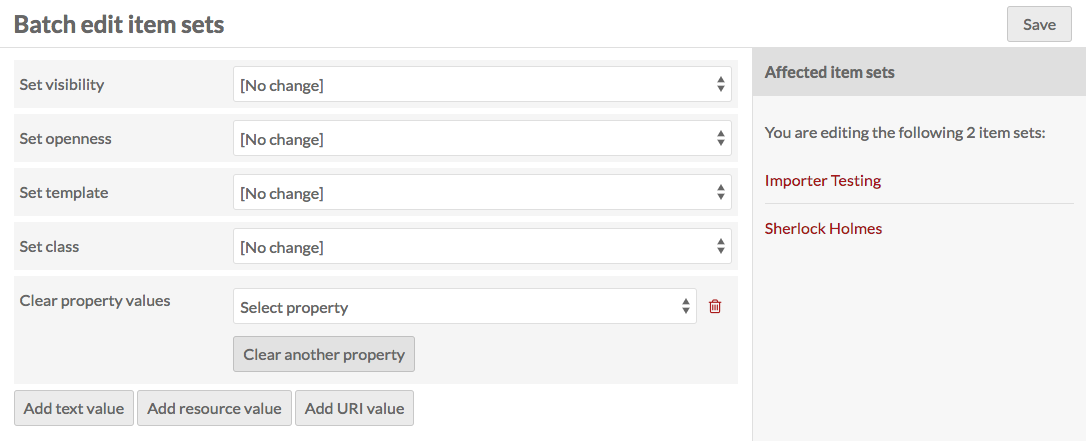
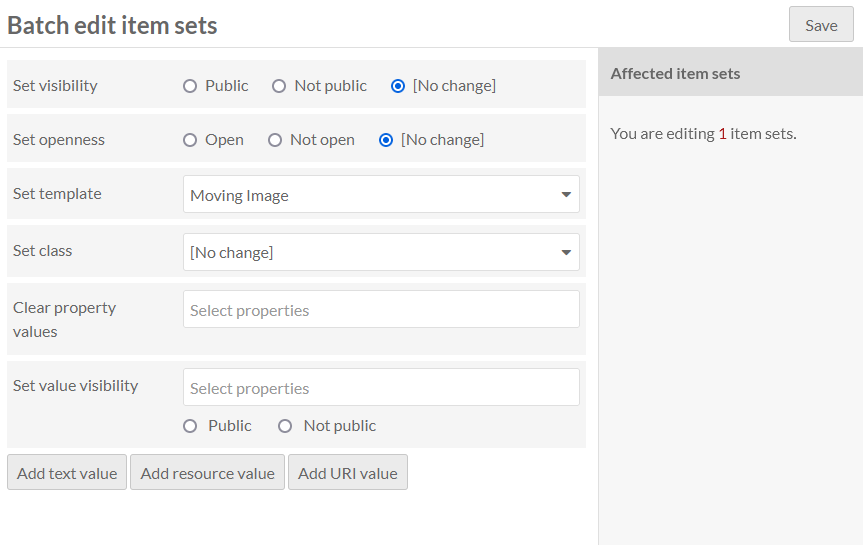
Item sets

diff --git a/docs/content/item-sets.md b/docs/content/item-sets.md
@@ -14,7 +14,7 @@ After clicking on the tab, a table appears listing all item sets with:
 - the **Owner** of the set
 - the date the set was **Created**.
 
-In the top right corner of the Item Sets screen is the button to **Add new item set**. 
+In the top right corner of the Item Sets screen is the button to "Add new item set". 
 
 Options for navigating and creating items sit in the header of the table of items. 
 
@@ -41,7 +41,7 @@ To view the items in a set, either click on the number of items in the set on th
 
 ## Add an item set
 
-To add a new item set, click the Item Sets tab from the left navigation of the dashboard. Click the "Add new item set" button on the right hand side of the screen.
+To add a new item set, click the **Item Sets** tab from the left-hand navigation of the dashboard. Click the "Add new item set" button on the right hand side of the screen.
 
 Item sets may use the same resource templates available for items to provide pre-selected fields. Each set should contain at least one descriptive value, such as Dublin Core Description. 
 
@@ -161,9 +161,9 @@ To cancel out of editing, click the "Cancel" button in the upper right corner, b
 
 ![Detail view of the top row if information and buttons on an item edit view. A red arrow points to the Cancel button, on the far right](contentfiles/itemset_cancel.png)
 
-## Batch editing
+## Batch actions
 
-From the browse page of item sets (admin/item-set) you can batch edit item sets, using the dropdown menu on the upper right near the "Add new item set" button. You can select multiple item sets using the checkboxes on the left of each set's row.
+From the browse page of item sets (`admin/item-set`) you can batch edit item sets, using the dropdown menu on the upper left, near the pagination options. You can select item sets manually for batch editing using the checkboxes on the left, or select all of the item sets on the page, or use the dropdown to edit all item sets that are currently in the subset. 
 
 ![A red arrow points to the dropdown for batch editing and deleting options](contentfiles/itemsets_batch.png)
 
@@ -174,27 +174,40 @@ Batch actions are as follows:
 - Delete selected: delete only the item sets that are selected on the page
 - Delete all: delete all the item sets returned by a search (default is all item sets).
 
-Choose one of these options and then click "Go".
+The number of results per page is set in the [installation's global settings](../admin/settings.md#general).
 
-**Batch editing** item sets takes you to a new page. The item sets being edited will display on the right side in a drawer, while the batch edit form gives you the following options:  
+You can first use the "🔍 Advanced search" link to narrow down the item sets to a subset for editing. For example, you can use [Advanced search](../search.md#item-advanced-search) to limit to item sets that are owned by a specific user. 
 
-- set visibility: a dropdown, select from public or not public.
-- set openness: a dropdown, select from open or not open.
-- set template: a dropdown, select from the installation's resource templates.
-- set class: a dropdown, select from classes of the installed vocabularies.
-- clear property values: a dropdown menu with all the properties in all vocabularies, selecting from this will remove any values in that property in the affected item sets. Clear additional properties using the "Clear another property" button.
+If you perform a search, you will once again see the browse page, with your selected parameters appearing at the top of the screen. From this browse screen you can select item sets manually for batch editing using the checkboxes on the left, or select all of the item sets on the page, or use the dropdown to edit all item sets that are currently in the subset. 
 
-![Batch edit items form, with options as described above. Everything is grayscale](contentfiles/itemsets_batchedit.png)
+If you complete a batch action from the next screen, you will return back to this same item set subset. 
+
+### Batch editing
+
+**Batch editing** item sets takes you to a new page. The item sets being edited will display on the right side in a drawer. Be sure to confirm the number of item sets being edited looks correct.
+
+The batch edit form gives you the following options:  
+
+- Set visibility: a radio button. Select from public or not public to make the item set visible or not visible to logged-out users.
+- Set openness: a radio button. Select from open or not open. Open sets can be edited and added to by any user on the install; closed sets are available and editable only by its creator, site admins, and global admins.
+- Set template: a dropdown. Select from the installation's resource templates. You can remove templates from the selected item sets with the "[Unset template]" option. A search bar appears at the top of the dropdown menu if you would like to type to search.
+- Set class: a dropdown. Select from classes of the installed vocabularies. You can remove all classes from the selected item sets with the "[Unset class]" option. A search bar appears at the top of the dropdown menu if you would like to type to search.
+- Clear property values: a dropdown and text field, with all the properties in all vocabularies. Selecting from this will remove any values in that property in the affected item sets. You can remove multiple property values at once: click in the text field again to see the remaining options. 
+- Set value visibility: a dropdown and text field, with radio buttons. Set the visibility of a specific property or properties to either public or not public. Unlike the radio buttons at the top of the form, this will only affect one or more metadata fields, instead of the entire item set (for example, you may wish to hide the "Creator" value on some public item sets). Select a property from the text field (type to begin searching), and the choose either the "Public" or "Not public" radio button for this option. You can add multiple properties by clicking again within the text field, but they will all become either "Public" or "Not public".
+
+![Batch edit items form, with options as described above.](contentfiles/itemsets_batchedit.png)
 
 In addition, you can use the bottoms at the bottom of the batch edit form to add properties to every item set:
 
-- add text value
-- add resource value
-- add URI value  
+- Add text value
+- Add resource value
+- Add URI value.  
 
 Selecting any of these will add a block to the form where you can select a property from the installed vocabularies and enter the value for that property.
 
 ![Image depicts only the Add text value block of the batch edit form, with a dropdown labeled "select property" above an empty text field](contentfiles/itemsets_property.png)
+
+### Batch deleting
 
 For the **delete actions**, a drawer will open on the right side of the screen telling you the number of item sets which will be deleted. Nothing will be deleted unless you click the red "Confirm Delete" button. This action cannot be undone. To opt out of deleting the item sets, click the "X" in the upper right corner of the deletion drawer. To confirm delete, check the "Are you sure" checkbox (for "Delete all" but not "Delete selected") and then click "Confirm Delete". Note that deleting the item set will not delete the items associated with that set.
 

diff --git a/docs/content/media.md b/docs/content/media.md
@@ -185,7 +185,7 @@ You can provide alternate text for all media by typing descriptive text into the
 ![Edit media open to Advanced tab, showing the Alt Text input box](contentfiles/media_alttext.png)
 
 ## Batch actions
-From the media browse page, you can batch edit media, using the dropdown menu on the left near the pagination buttons. You can select media manually for batch editing using the checkboxes on the left, or select all of the media on the page, or use the dropdown to edit all media that are currently in the subset. 
+From the media browse page (`admin/media`), you can batch edit media, using the dropdown menu on the left near the pagination buttons. You can select media manually for batch editing using the checkboxes on the left, or select all of the media on the page, or use the dropdown to edit all media that are currently in the subset. 
 
 ![A red arrow points to the dropdown for batch editing and deleting options](contentfiles/media_batch1.png)
 

diff --git a/docs/content/items.md b/docs/content/items.md
@@ -260,7 +260,7 @@ To use a media resource for a property, select the media option for the element 
 
 ## Batch actions
 
-From the browse page of items (admin/item) you can batch edit items, using the dropdown menu on the left near the pagination buttons. You can select items manually for batch editing using the checkboxes on the left, or select all of the items on the page, or use the dropdown to edit all items that are currently in the subset. 
+From the browse page of items (`admin/item`) you can batch edit items, using the dropdown menu on the left near the pagination buttons. You can select items manually for batch editing using the checkboxes on the left, or select all of the items on the page, or use the dropdown to edit all items that are currently in the subset. 
 
 ![A red arrow points to the dropdown for batch editing and deleting options](contentfiles/items_batch.png)
 
